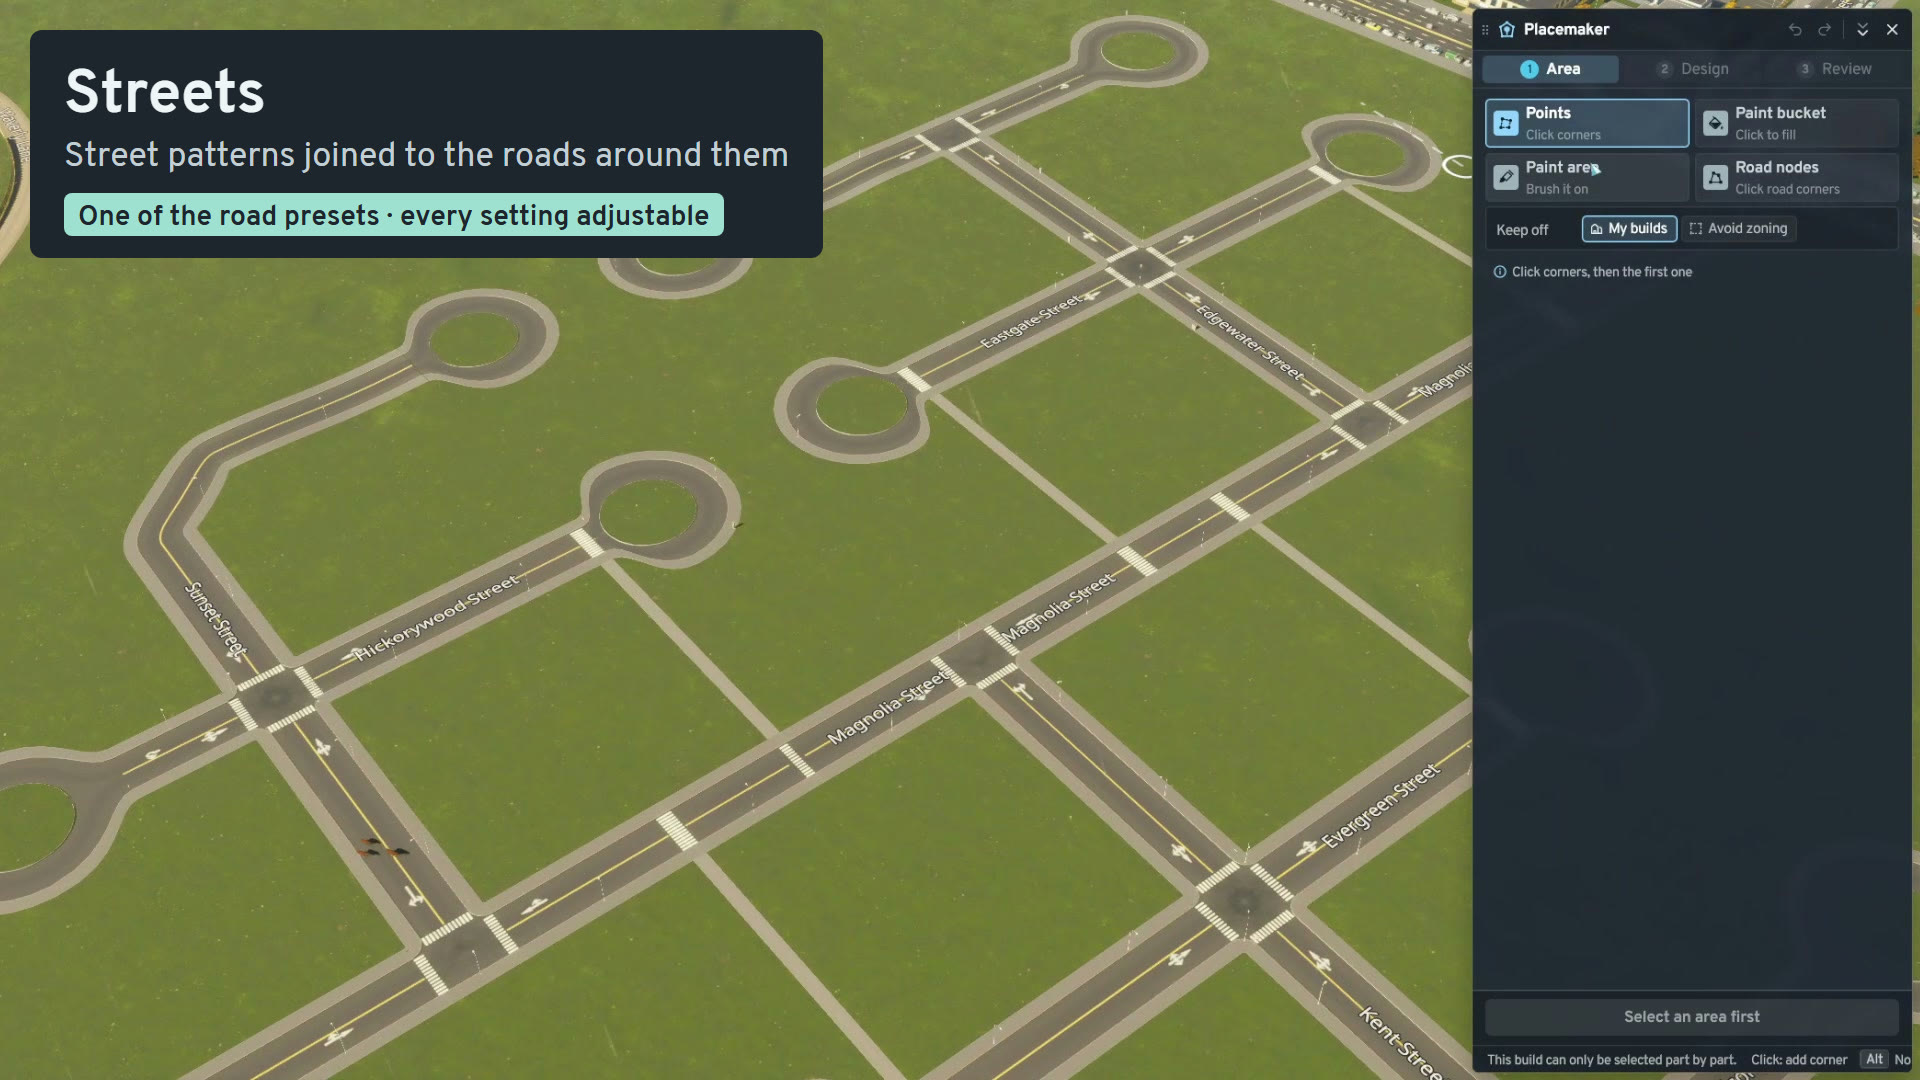
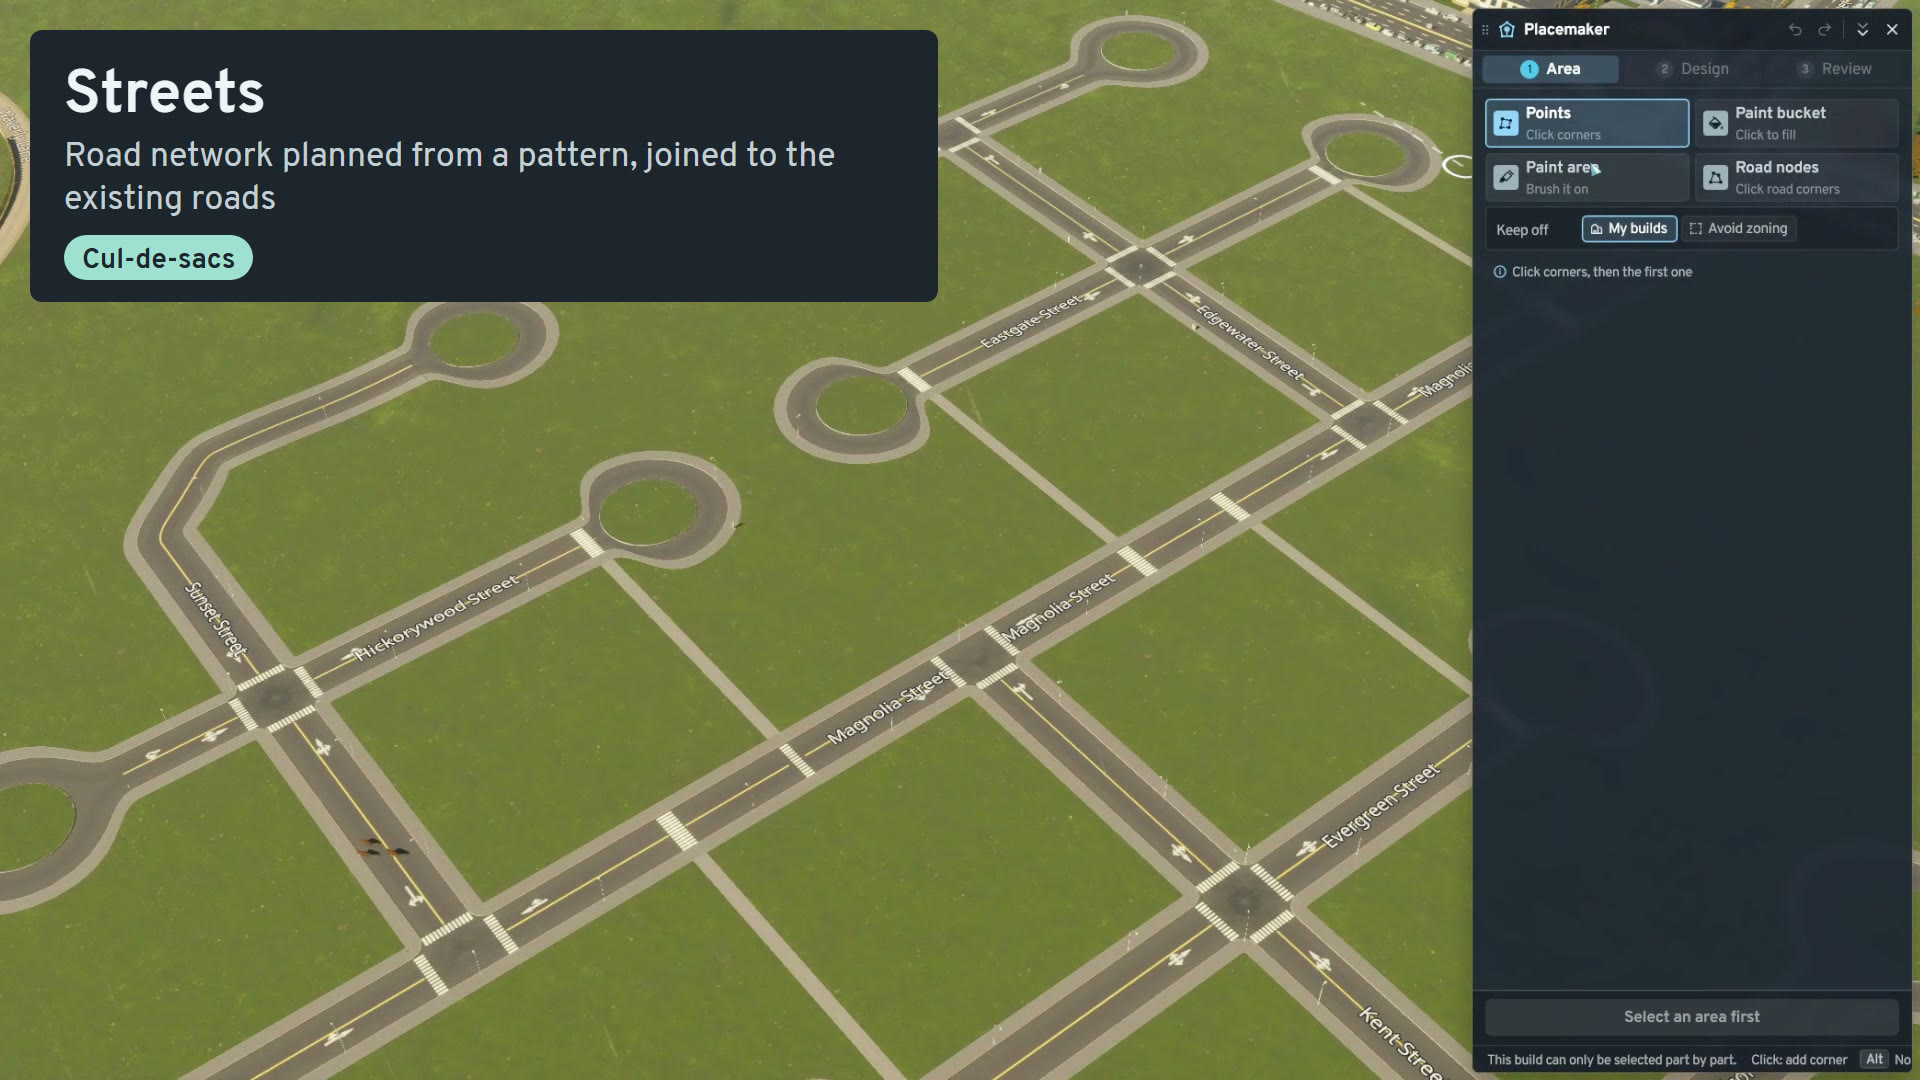
Paradox Mods: three roads pictures (streets, 11 street patterns, preview then build), setting pills on every picture, market square label fixed, coast dropped

Changed region(s): [[0.0, 0.0306, 0.5, 0.3056]]

diff --git a/docs/publish/MOD-PAGE.md b/docs/publish/MOD-PAGE.md
@@ -65,4 +65,4 @@ Andreas Pardeike (MIT). Licensed GPL-3.0.
 ## Pictures
 
 - Thumbnail: `Properties/Thumbnail.png`: four shots (roads, parking, wetland, beach), the logo and name on a plain band.
-- Screenshots: `Properties/Screenshots/`: 10 labelled pictures (Paradox Mods takes at most 10), every visible type, related types paired; 02 is a street-patterns sheet from the game runner.
+- Screenshots: `Properties/Screenshots/`: 10 (Paradox takes at most 10): streets, street patterns (11, game runner), preview-then-build, then one per category with related types paired; each labelled with its name, how it is made and pills for its style and key settings.
